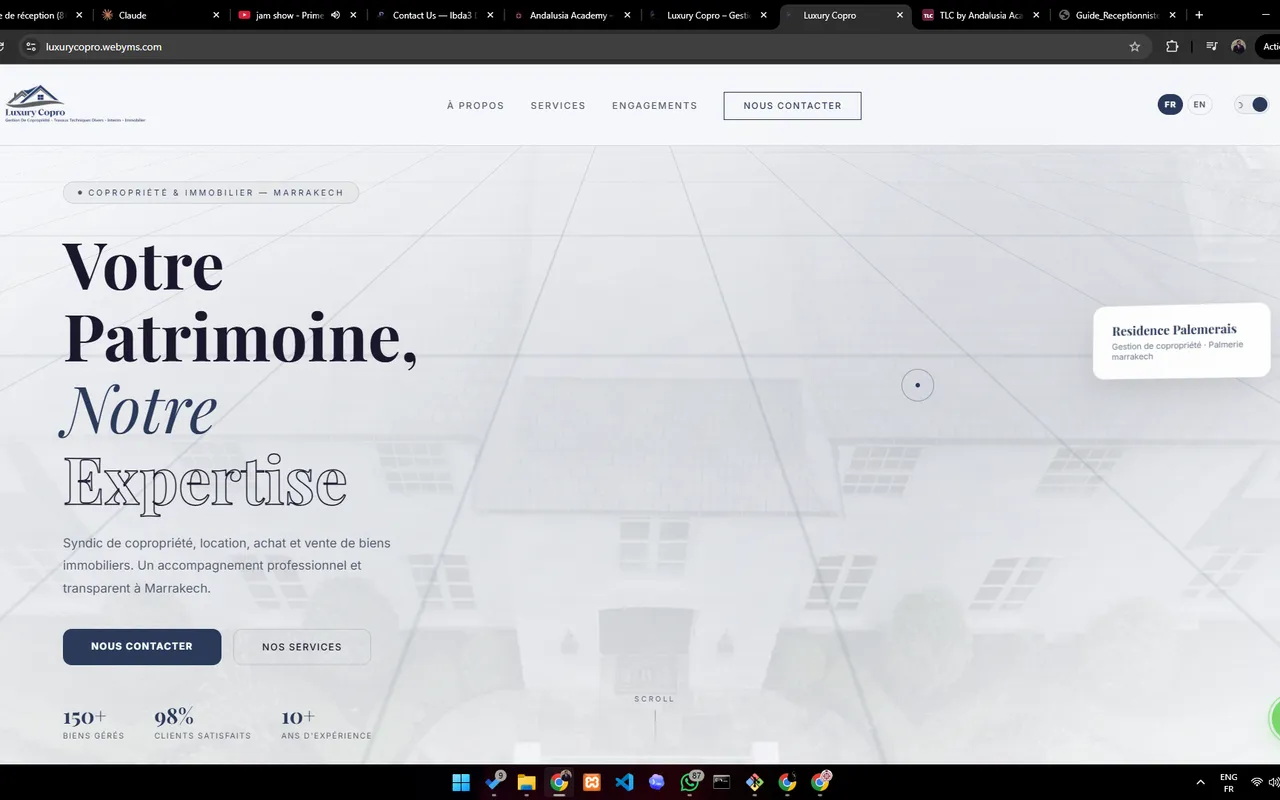
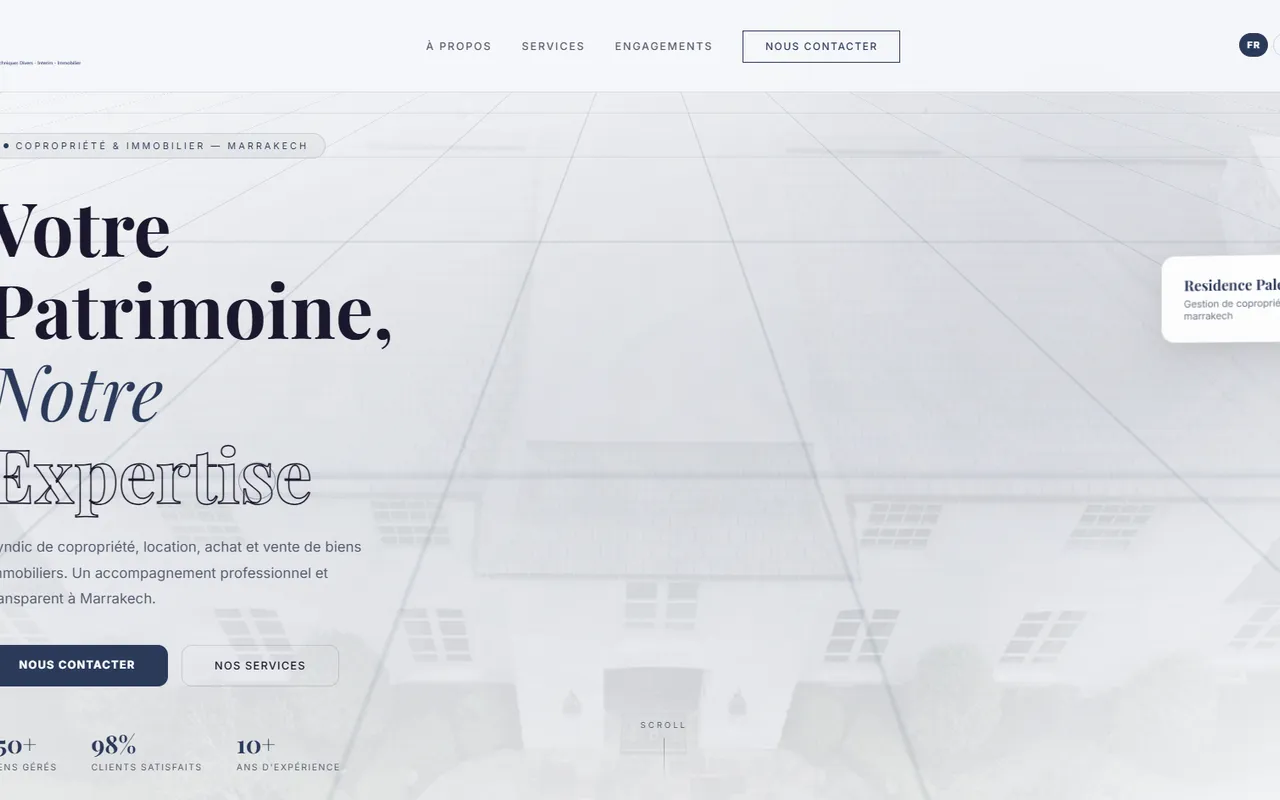
Update Luxury Copro image and center portfolio card images

diff --git a/src/components/PortfolioGrid.tsx b/src/components/PortfolioGrid.tsx
@@ -108,7 +108,7 @@ export default function PortfolioGrid({ projects }: { projects: PortfolioProject
                           src={project.image}
                           alt={project.title}
                           fill
-                          className="object-cover group-hover:scale-105 transition-transform duration-300"
+                          className="object-cover object-center group-hover:scale-105 transition-transform duration-300"
                           sizes="(max-width: 768px) 100vw, (max-width: 1024px) 50vw, 33vw"
                           placeholder="blur"
                           blurDataURL={BLUR_PLACEHOLDER}